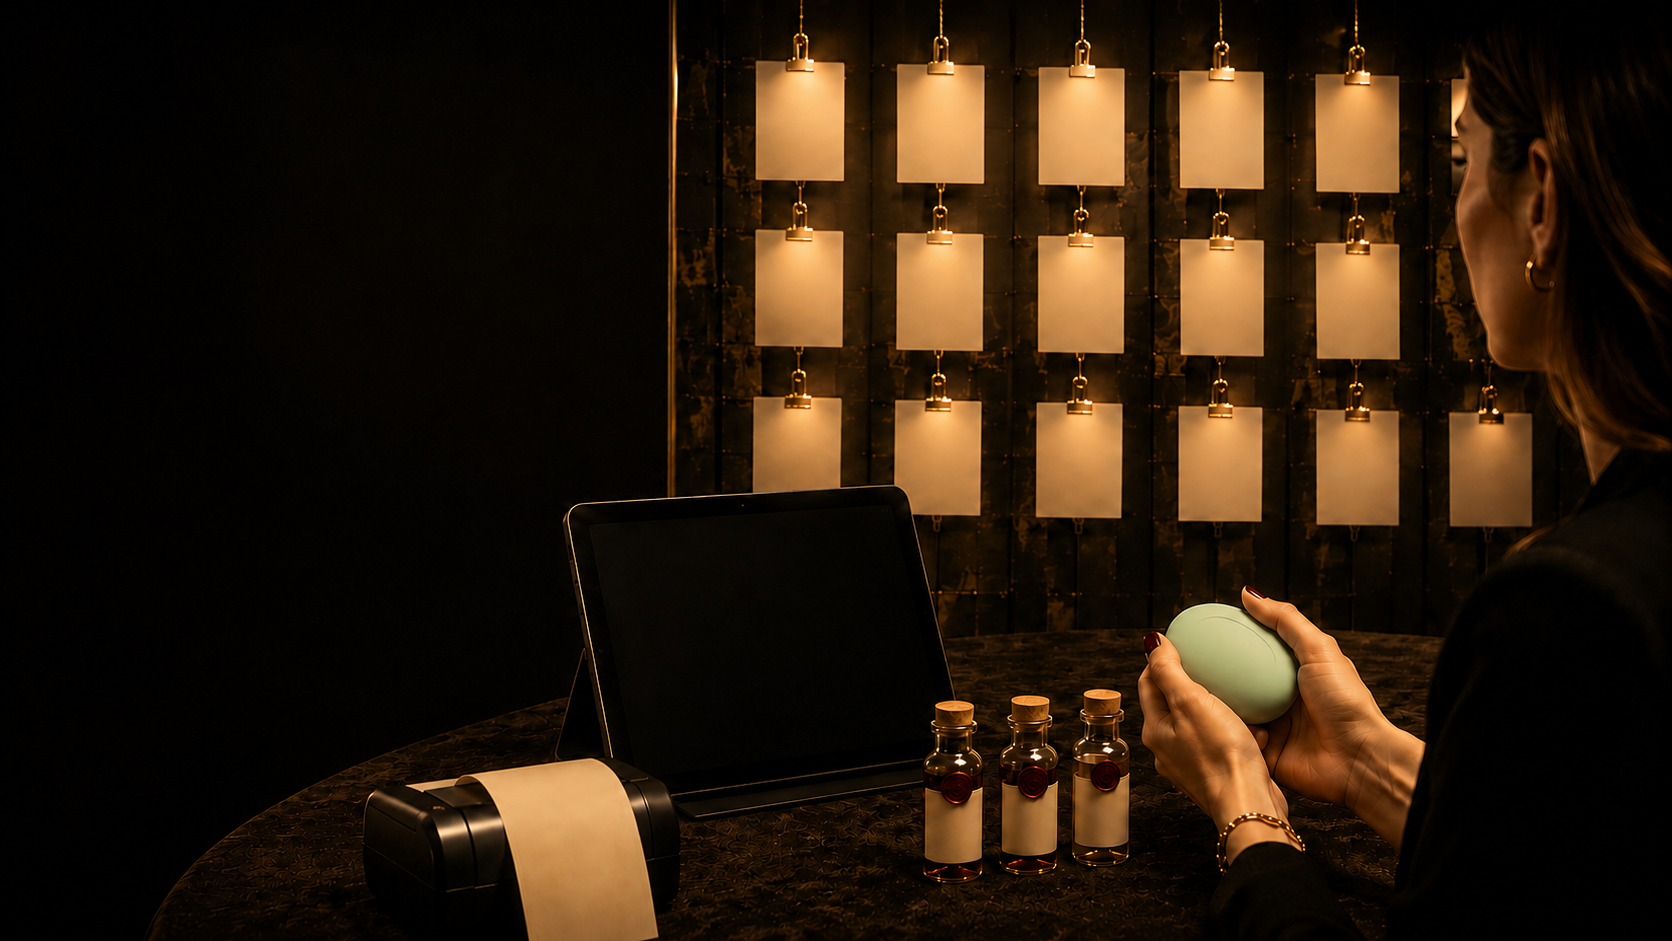
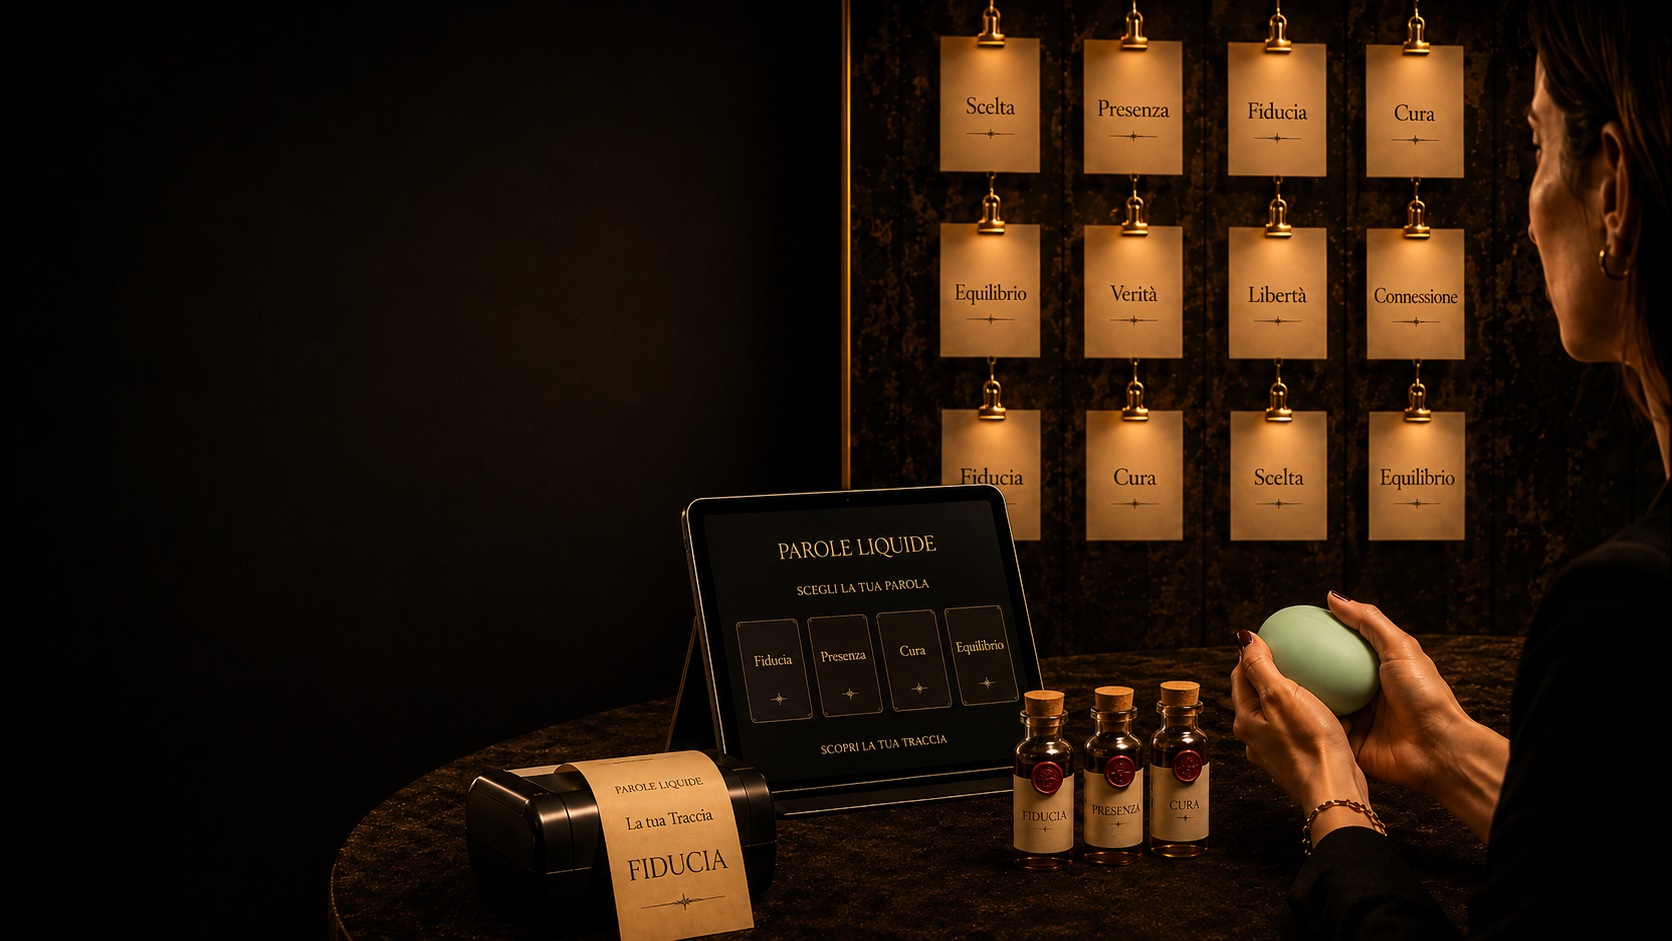
Add files via upload

diff --git a/index.html b/index.html
@@ -22,7 +22,7 @@
     .wrap{max-width:1180px;margin:0 auto;padding:0 24px}
     header{
       position:fixed;inset:0 0 auto 0;z-index:20;
-      background:linear-gradient(180deg,rgba(9,8,6,.92),rgba(9,8,6,.42),transparent);
+      background:linear-gradient(180deg,rgba(9,8,6,.96),rgba(9,8,6,.50),transparent);
       padding:22px 0 34px;
     }
     .nav{display:flex;align-items:center;justify-content:space-between;gap:20px}
@@ -39,12 +39,12 @@
     .hero{
       min-height:100vh;
       background:
-        linear-gradient(90deg,rgba(9,8,6,.88) 0%,rgba(9,8,6,.70) 28%,rgba(9,8,6,.22) 58%,rgba(9,8,6,.16) 100%),
+        linear-gradient(90deg,rgba(9,8,6,.94) 0%,rgba(9,8,6,.84) 26%,rgba(9,8,6,.46) 48%,rgba(9,8,6,.16) 72%,rgba(9,8,6,.12) 100%),
         url('hero-postazione.png') center center / cover no-repeat;
       display:flex;align-items:center;
     }
     .hero-inner{padding:140px 0 90px;max-width:520px}
-    h1{margin:0;font-size:clamp(44px,6vw,78px);line-height:1.02;font-weight:400}
+    h1{margin:0;font-size:clamp(46px,6vw,82px);line-height:1.02;font-weight:400}
     .eyebrow{color:var(--gold);font-size:12px;letter-spacing:.16em;text-transform:uppercase;margin-bottom:14px}
     .lead{margin:28px 0 0;font-size:22px;line-height:1.6;color:var(--muted)}
     .cta{display:flex;flex-wrap:wrap;gap:12px;margin-top:34px}
@@ -73,7 +73,7 @@
       header{position:static;padding:18px 0}
       .navlinks{display:none}
       .hero{min-height:auto;background-position:center center}
-      .hero-inner{padding:58px 0 64px}
+      .hero-inner{padding:58px 0 64px;max-width:100%}
       .grid-2{grid-template-columns:1fr;gap:28px}
       section{padding:62px 0}
       .steps{grid-template-columns:1fr 1fr}
@@ -86,8 +86,8 @@
       .cta{flex-direction:column;align-items:flex-start}
       .hero{
         background:
-          linear-gradient(180deg,rgba(9,8,6,.56),rgba(9,8,6,.96)),
-          url('hero-postazione.png') center center / cover no-repeat;
+          linear-gradient(180deg,rgba(9,8,6,.60),rgba(9,8,6,.97)),
+          url('hero-postazione.png') 68% center / cover no-repeat;
       }
     }
   </style>